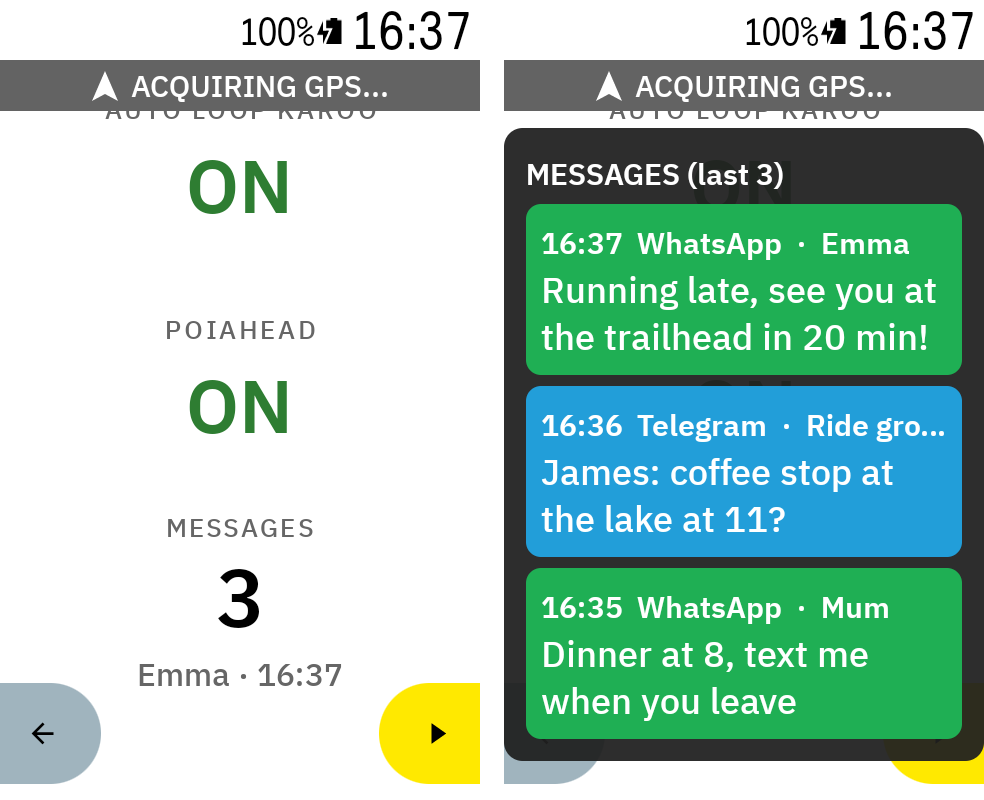
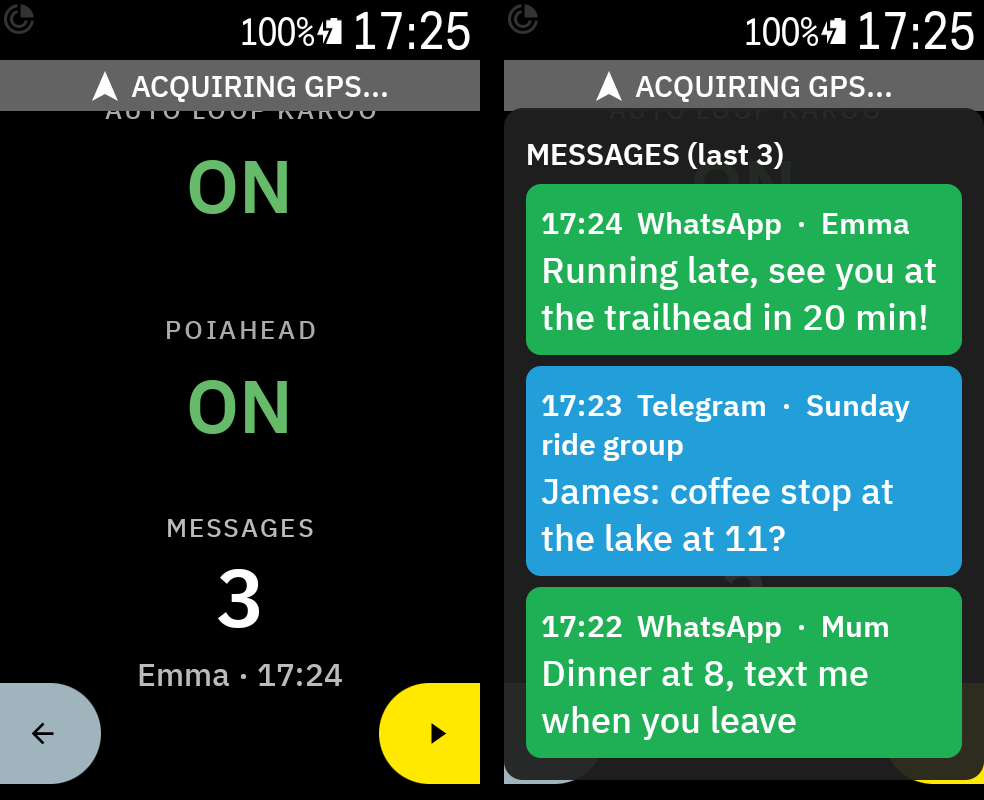
Messages list: the header of a message may take two lines, a group name no longer ends in an ellipsis after the time and the app; README picture with matching times, night theme

diff --git a/karoo/src/main/kotlin/com/anpaiss/notifybridge/karoo/MessagePopup.kt b/karoo/src/main/kotlin/com/anpaiss/notifybridge/karoo/MessagePopup.kt
@@ -124,7 +124,8 @@ class MessagePopup(private val context: Context) {
                     addView(TextView(context).apply {
                         text = "${MessagesDataType.hhmm(e.at)}  ${e.app}" + if (e.title.isNotEmpty()) "  ·  ${e.title}" else ""
                         textSize = smallSp; setTypeface(typeface, Typeface.BOLD); setTextColor(0xFFFFFFFF.toInt())
-                        maxLines = 1; ellipsize = android.text.TextUtils.TruncateAt.END
+                        // Two lines: a group name does not fit after the time and the app ("Ride gro…", 21/11)
+                        maxLines = 2; ellipsize = android.text.TextUtils.TruncateAt.END
                     })
                     if (e.text.isNotEmpty()) addView(TextView(context).apply {
                         text = e.text
